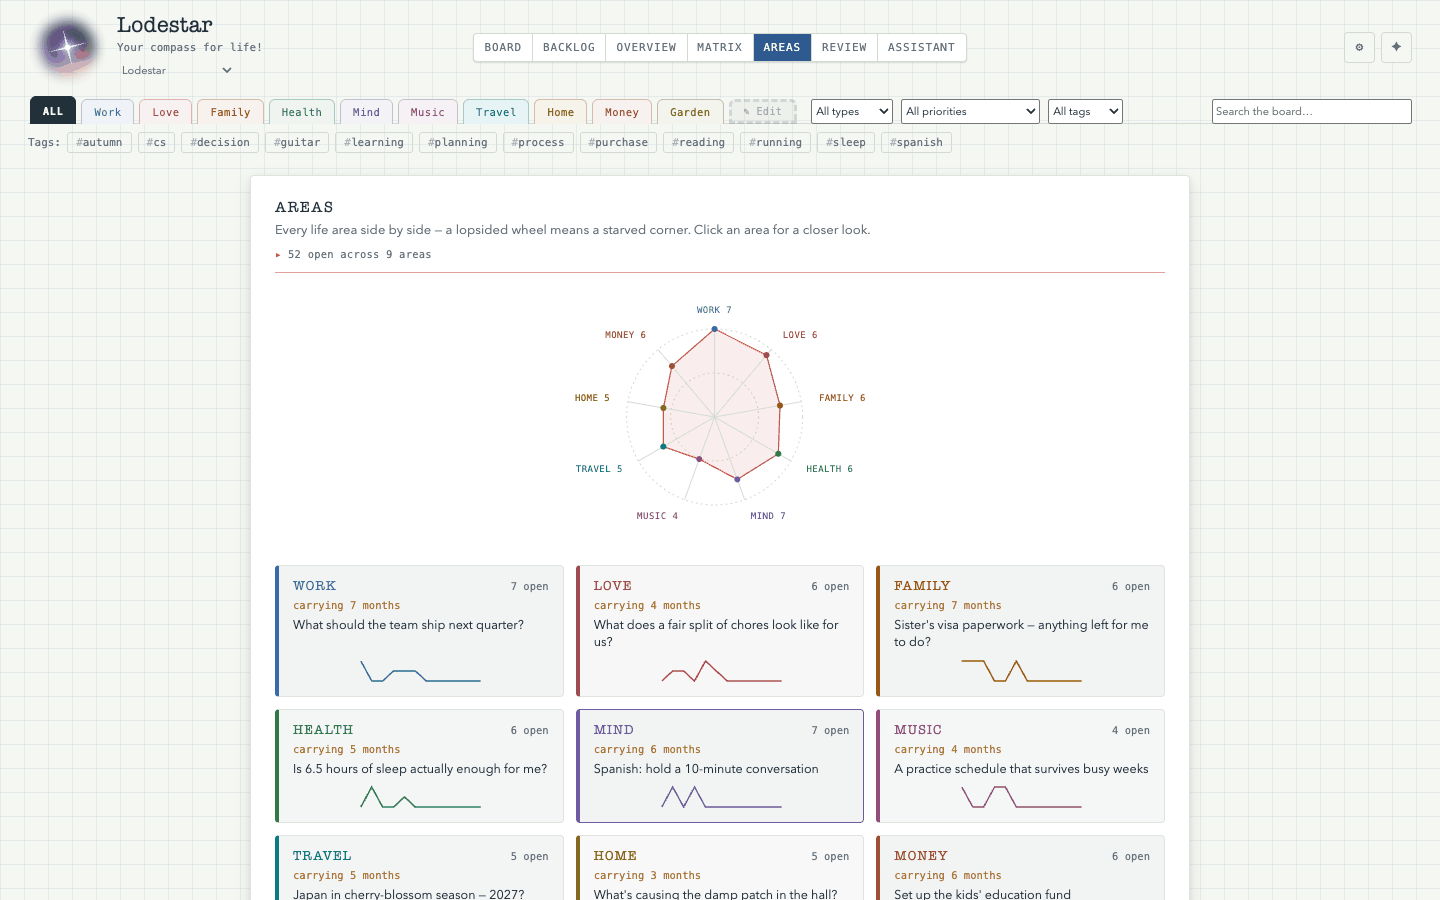
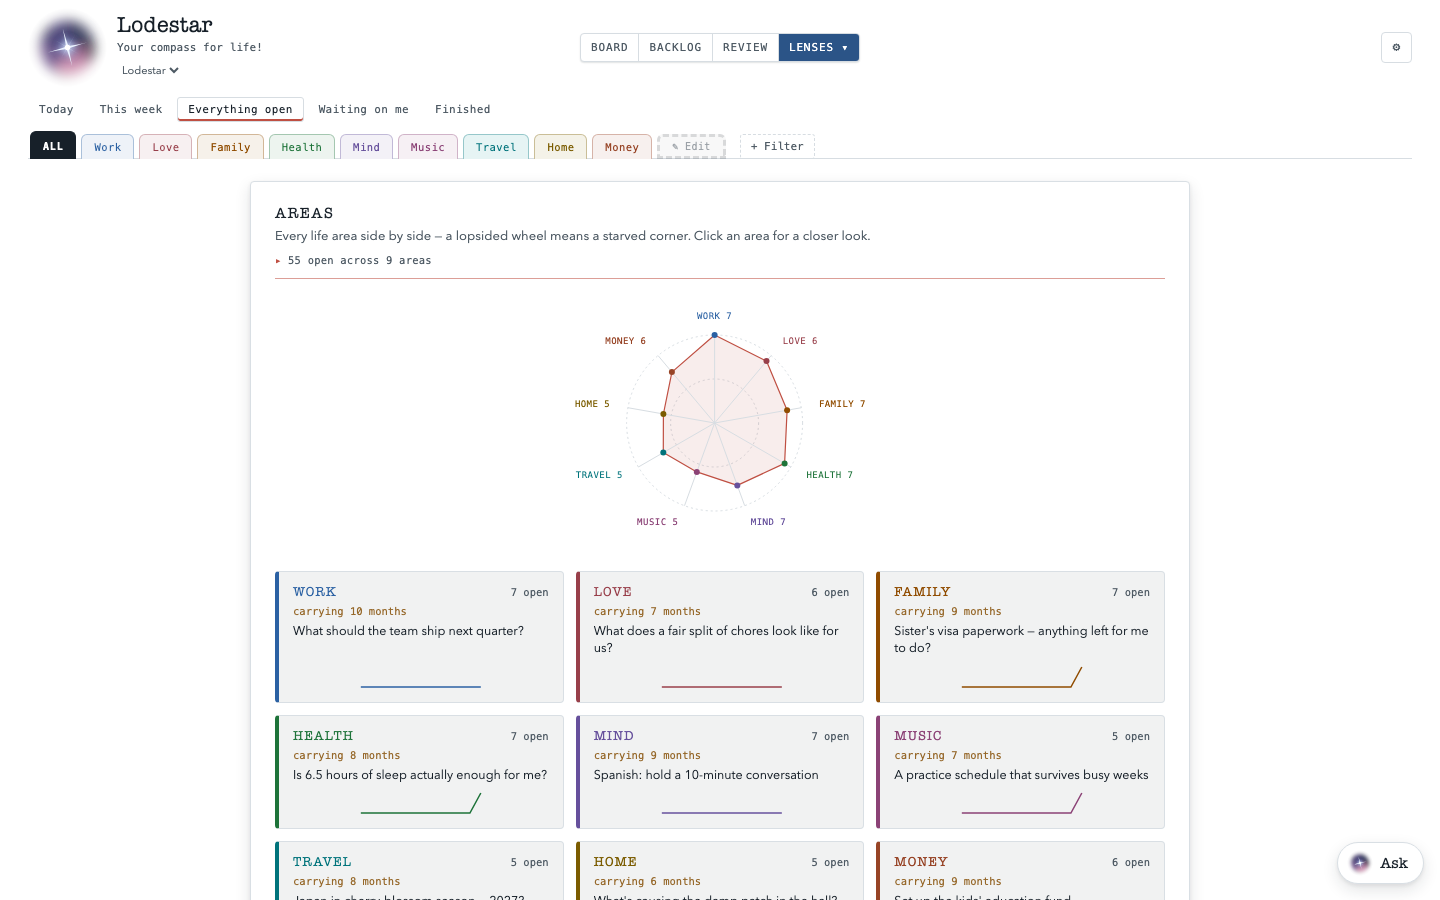
docs(img): retake the screenshots from the demo board
A new script starts a throwaway server, loads the demo cards and saves one screenshot per view. The old images predated the filter window and the new board layout, so they are replaced, and three new ones show the filters, the card editor and the meaning map.

diff --git a/scripts/capture-screenshots.py b/scripts/capture-screenshots.py
@@ -1,0 +1,119 @@
+"""Capture the README screenshots from a throwaway demo board.
+
+    uv run --with playwright python scripts/capture-screenshots.py docs/img
+
+Starts its own server on :3017 with a temporary database, loads
+sample-overview.json plus a few deadlines, plans and habits, and saves one PNG
+per view. The real board is never touched.
+"""
+import json, os, subprocess, sys, tempfile, time, urllib.request
+from datetime import date, datetime, timedelta, timezone
+from playwright.sync_api import sync_playwright
+
+ROOT = os.path.dirname(os.path.dirname(os.path.abspath(__file__)))
+OUT = sys.argv[1]
+PORT = 3017
+URL = f"http://127.0.0.1:{PORT}"
+PW = "demo-gallery-password"
+tmp = tempfile.mkdtemp()
+today = date.today()
+
+def iso(d): return d.isoformat()
+def stamp(days_ago): return (datetime.now(timezone.utc) - timedelta(days=days_ago)).isoformat()
+
+sample = json.load(open(os.path.join(ROOT, "sample-overview.json")))
+cards = []
+for i, c in enumerate(sample["cards"]):
+    c = dict(c, id=f"demo-{i:03d}", num=i + 1)
+    if c["type"] == "plan": c["type"] = "task"
+    cards.append(c)
+by = {c["title"]: c for c in cards}
+def edit(title, **kw): by[title].update(kw)
+
+# A little life on top of the sample: deadlines, plans, dreams, parts, habits.
+edit("Renew the passport before it lapses", deadline=iso(today - timedelta(days=2)), importance="high", urgency="high")
+edit("Find a dentist that does evening appointments", deadline=iso(today + timedelta(days=3)))
+edit("Prepare the performance review write-ups", deadline=iso(today + timedelta(days=5)), importance="high")
+edit("Write the anniversary letter", deadline=iso(today + timedelta(days=9)))
+edit("Japan in cherry-blossom season — 2027?", type="dream", plan="2027-04")
+edit("Interrail with the nieces next summer", type="dream", plan="2027")
+edit("Record a lo-fi cover of 'Heroes'", type="dream")
+edit("Shortlist towns for the autumn hiking trip", plan=iso(today))
+edit("Draft the conference talk proposal", plan=f"{today.year}-{today.month:02d}")
+edit("Fix the squeaky bedroom door", plan=iso(today + timedelta(days=1)))
+parent = by["Sort out grandpa's photo archive"]
+n = len(cards)
+for j, t in enumerate(["Scan the 1970s albums", "Label faces with grandma", "Share the folder with the cousins"]):
+    cards.append({"id": f"demo-{n + j:03d}", "num": n + j + 1, "title": t, "type": "task", "category": "family",
+                  "columnId": "inbox" if j else "in-progress", "parentId": parent["id"], "notes": "", "tags": [],
+                  "createdAt": stamp(10), "updatedAt": stamp(1)})
+n = len(cards)
+def history(days, per_day):
+    return {iso(today - timedelta(days=d)): per_day for d in range(1, days) if d % 5 != 3}
+cards.append({"id": f"demo-{n:03d}", "num": n + 1, "title": "Meditate", "type": "habit", "category": "health",
+              "columnId": "inbox", "habitFreq": "daily", "habitCount": 2,
+              "habitTimes": [{"time": "07:30"}, {"time": "21:00"}], "habitHistory": {**history(21, 2), iso(today): 1},
+              "notes": "", "tags": [], "createdAt": stamp(30), "updatedAt": stamp(0)})
+cards.append({"id": f"demo-{n+1:03d}", "num": n + 2, "title": "Practise guitar", "type": "habit", "category": "music",
+              "columnId": "inbox", "habitFreq": "daily", "habitCount": 1, "habitTimes": [{"time": "18:00"}],
+              "habitHistory": history(14, 1), "notes": "", "tags": [], "createdAt": stamp(20), "updatedAt": stamp(1)})
+cards.append({"id": f"demo-{n+2:03d}", "num": n + 3, "title": "Call mum", "type": "habit", "category": "family",
+              "columnId": "inbox", "habitFreq": "weekly", "habitCount": 1, "habitTimes": [{"weekday": 0, "time": "10:00"}],
+              "habitHistory": {}, "notes": "", "tags": [], "createdAt": stamp(40), "updatedAt": stamp(3)})
+for c in cards:
+    if c["columnId"] == "answered": c["doneAt"] = c.get("updatedAt")
+
+env = {**os.environ, "PORT": str(PORT), "BOARD_DB": f"{tmp}/board.db", "ASSISTANT_DB": f"{tmp}/assistant.db",
+       "AGENT_URL": "http://127.0.0.1:9", "LODESTAR_AUTH_PASSWORD": PW, "LODESTAR_BACKUP_ON_WRITE": "0",
+       "LODESTAR_BACKUP_DIR": f"{tmp}/backups", "LODESTAR_RCLONE_BIN": "/nonexistent", "NODE_NO_WARNINGS": "1"}
+for k in [k for k in env if k.startswith("LODESTAR_AUTH_PASSWORD_HASH")]: env.pop(k)
+srv = subprocess.Popen(["node", "server.js"], cwd=ROOT, env=env, stdout=subprocess.DEVNULL, stderr=subprocess.DEVNULL)
+for _ in range(100):
+    try: urllib.request.urlopen(URL + "/api/health", timeout=1); break
+    except Exception: time.sleep(0.1)
+
+def shot(page, name, **kw):
+    page.wait_for_timeout(700)
+    page.screenshot(path=f"{OUT}/{name}.png", scale="css", animations="disabled", **kw)
+    print("saved", name)
+
+def view(page, name):
+    if name in ("overview", "matrix", "areas"):
+        page.click("#lenses-btn"); page.click(f"#lenses-panel button[data-view={name}]")
+    else:
+        page.click(f".view-switch button[data-view={name}]")
+    page.wait_for_timeout(900)
+
+def open_board(browser, **ctx_args):
+    ctx = browser.new_context(reduced_motion="reduce", **ctx_args)
+    page = ctx.new_page()
+    page.add_init_script("window.QBOARD_DISABLE_SEMANTIC = true")
+    assert page.request.post(URL + "/api/login", data={"password": PW}).ok
+    return ctx, page
+
+try:
+    with sync_playwright() as p:
+        b = p.chromium.launch()
+        ctx, page = open_board(b, viewport={"width": 1440, "height": 900})
+        r = page.request.put(URL + "/api/state", data={"version": 1, "cards": cards})
+        assert r.ok, (r.status, r.text())
+        page.goto(URL + "/"); page.wait_for_selector("#board .card", state="attached")
+        shot(page, "hero")
+        page.click("#filter-btn"); page.wait_for_selector("#filter-panel:not([hidden])")
+        shot(page, "filters"); page.keyboard.press("Escape")
+        page.locator(".card", has_text="Sort out grandpa").first.click()
+        page.wait_for_selector("dialog[open]")
+        shot(page, "card"); page.keyboard.press("Escape")
+        for v in ("matrix", "areas", "review", "overview"):
+            view(page, v); shot(page, v)
+        ctx.close()
+        ctx, page = open_board(b, viewport={"width": 390, "height": 844}, device_scale_factor=2,
+                               is_mobile=True, has_touch=True)
+        page.goto(URL + "/"); page.wait_for_selector("#board .card", state="attached")
+        page.wait_for_timeout(700)
+        page.screenshot(path=f"{OUT}/mobile.png", animations="disabled",
+                        clip={"x": 0, "y": 0, "width": 390, "height": 750})
+        print("saved mobile")
+        b.close()
+finally:
+    srv.terminate()

diff --git a/docs/img/README.md b/docs/img/README.md
@@ -1,178 +1,35 @@
-# Release gallery manifest
+# Screenshots
 
-The nine images and one animation beside this file are the curated release
-gallery. Six of the images are real, unretouched Playwright screenshots lifted
-from `tests/artifacts/`, which the end-to-end suite writes while driving the app
-against a throwaway SQLite database in a temp directory. The other four were
-captured on purpose, by two scripted sessions against a throwaway board of their
-own: `assistant.png` and `approval-gate.gif`, because no artifact of the
-Assistant existed that told the truth about it (*The live capture* below), and
-`board-habits.png` and `history.png`, because the artifacts of those two carried
-test-probe cards in frame (*The recapture* below). The card text in all of them
-comes from exactly three sources — the six seed cards in `js/core/cards.js`, the
-60-card demo board in the tracked, already-public `sample-overview.json`, and, in
-the two recaptured shots, three plainly synthetic titles typed into the running
-app (*Meditate*, *Book the winter tyres swap*, and *Sort out grandpa's photo
-archive* renamed to *Scan* it). So no image carries a real person's name, a real
-card, a real conversation, a key, or a path naming anyone's home directory. Nothing was
-edited pixel-by-pixel; the only processing was lossless-to-the-eye recompression
-(see *Optimisation* below).
+Every image here is a real, unedited screenshot of the app. None shows real
+personal data: the card text comes from the demo board in
+[`sample-overview.json`](../../sample-overview.json), plus a few synthetic
+deadlines, plans, sub-cards and habits added by the capture script.
 
-Paths are stable. Reference them from the README as `docs/img/<file>` and treat
-the filenames as API — rename nothing, add instead.
+## Regenerating
 
-## The gallery
+```sh
+uv run --with playwright python scripts/capture-screenshots.py docs/img
+```
 
-| File | Alt text | Caption (≤ 90 chars) | Supports the claim |
-| --- | --- | --- | --- |
-| **`hero.png`** ★ hero | Lodestar's Board view: three columns — Inbox, In Progress, Done — holding six cards, each with a ledger number, a neutral type stamp, and a coloured life-area label, above a rail of nine life-area tabs. | The board: every open thought in one ledger, stamped by type and coloured by life area. | The product at a glance — cards have a *type* and a *category*, and flow Inbox → In Progress → Done |
-| `board-habits.png` | The same board grown to 61 cards across nine life areas, with a "1 habit due — Meditate (1/2 today)" banner at the top, a Habits rail on the right, and a habit card showing its punch strip and a 21-day completion tape reading "15 of 21 complete · longest run 4". | Habits live on the board: a due banner, a rail, and a 21-day tape per habit. | Habit cards track repetitions per period and keep a capped history; the rail is the reminder |
-| `areas.png` | The Areas view: a nine-spoke radar wheel labelled Work, Love, Family, Health, Mind, Music, Travel, Home, Money, with per-area tiles below showing open counts, how long each has been carried, and a sparkline. | Nine life areas side by side — a lopsided wheel means a starved corner. | Lodestar covers a whole life, not one project; the wheel is the "give direction" pillar |
-| `matrix.png` | The Matrix view: four Eisenhower quadrants — Answer now, Schedule, Delegate, Drop — each holding a category-coloured dot, with a per-area colour legend above. | The Eisenhower matrix, importance against urgency, placed by the card's own fields. | Cards carry importance and urgency, and four framings (Eisenhower, Leverage, Serenity, Follow-through) read them |
-| `review.png` | The Review view scrolled to Today's Resurfacing: three long-untouched cards, each offering "Still matters", "Open" and "To Trash", above a "Stamp the review done" button showing a REVIEWED stamp. | Weekly review: three old thoughts re-met on purpose — keep, open, or let go. | Drives follow-through and never loses a thought; resurfacing is deliberate, not a notification |
-| `history.png` | The Board History dialog listing seven timestamped changes newest first — a delete, a category set, a card added, a move to Done, a deadline, a title edit, a type change — each with a Restore button, the newest marked CURRENT, above a Deleted cards section holding the deleted card with Restore and "Delete permanently" beside it. | Every change is logged and restorable; only "Delete permanently" really erases. | The durability promise — a card is destroyed only via Trash → Delete permanently, and undo is a history, not one step |
-| `categories.png` | The Categories dialog listing ten life areas, each in its own colour with its card count and a Remove button, plus a new-category field and a row of colour swatches. | Life areas are yours to name and colour — removing one never deletes its cards. | Colour always means category; the registry is per board and editable |
-| `assistant.png` | The Assistant view: a question asking for a new task card, the assistant's reply saying it has proposed one, and above it a dashed panel headed "PROPOSED — 1 CARD AWAITING YOUR APPROVAL" holding the card "Book a dentist appointment" with Reject and Approve buttons. | The assistant proposes; nothing reaches the board until you approve it. | The write-protection gate — `MUTATING_TOOLS` is empty and the agent has no board-write path at all |
-| `approval-gate.gif` | A 15-second animation: a question is typed into the Assistant, the reply streams in, a proposed card appears awaiting approval, Approve is pressed, and the card appears on the Board as C-061 "Book a dentist appointment" in Health. | Proposal to approval to card, in fifteen seconds — the gate in motion. | The same gate, shown end to end: the agent cannot write, and the user's click is what does |
-| `mobile.png` | Lodestar at 375px wide: the header and view tabs stacked, the life-area tabs in a vertical rail, and the Inbox column beside a horizontally scrolling In Progress column. | At 375px the board becomes a horizontal scroll; nothing is hidden away. | The board is usable on a phone with no separate mobile build |
+The script starts its own server on port 3017 with a temporary database, so
+your own board is never read or changed. It rewrites `hero`, `filters`, `card`,
+`overview`, `matrix`, `areas`, `review` and `mobile`. Desktop shots are taken at
+1440×900; the phone shot at 390 px wide, 2× scale.
 
-★ = hero. Use `hero.png` as the single image at the top of the README.
+## Files
 
-`approval-gate.gif` needs no sound and shows no cursor, so its caption carries
-the story on its own for anyone who cannot or will not play it. The transcript
-of the recorded turn, in order: the question *"Propose a new task card: Book a
-dentist appointment. Health area. Do not ask me anything first."*; the reply
-*"I've proposed the task card 'Book a dentist appointment' under Health, in the
-inbox. It's awaiting your approval on the board."*; the panel *"PROPOSED — 1
-CARD AWAITING YOUR APPROVAL"* with **Reject** and **Approve**; and after
-Approve, the card on the Board as **C-061 · task · Health**.
-
-Note on `review.png`: the shot is scrolled past the four stat tiles at the top
-of the Review view, so the tiles are not visible in it. The caption above claims
-only what the image shows.
-
-## Optimisation
-
-All nine are PNG. Eight have a 1440px long edge — the six lifted from
-`tests/artifacts/` and the two recaptured, which are shot at `scale="css"` into a
-1440x900 viewport and so need no resizing at all; `assistant.png` was captured at
-2x and halved to 1600px to sit beside them. The nine total **1,108 KB**, and the
-GIF adds 258 KB.
-
-Five of them are recompressed with a 256-colour adaptive palette (Pillow,
-`MEDIANCUT`, no dither), which is visually lossless on flat, quad-paper UI
-screenshots — mean per-pixel error ≈ 0.1/255 — for a 62 % saving:
-
-| File | Shipped | Treatment |
+| File | Shows | Source |
 | --- | --- | --- |
-| `hero.png` | 47 KB | 256-colour palette (from 130 KB) |
-| `areas.png` | 54 KB | 256-colour palette (from 145 KB) |
-| `matrix.png` | 39 KB | 256-colour palette (from 104 KB) |
-| `review.png` | 48 KB | 256-colour palette (from 129 KB) |
-| `mobile.png` | 25 KB | 256-colour palette (from 68 KB) |
-| `board-habits.png` | 210 KB | full colour, plain re-pack |
-| `history.png` | 275 KB | full colour, plain re-pack |
-| `categories.png` | 202 KB | full colour, plain re-pack |
-| `assistant.png` | 204 KB | halved from 2x, full colour |
+| `hero.png` | The Board: columns, summary line, habits and plan rail | capture script |
+| `filters.png` | The filter window | capture script |
+| `card.png` | The card editor on a card with sub-cards | capture script |
+| `overview.png` | Cards mapped by meaning | capture script |
+| `matrix.png` | Eisenhower matrix with the Unknown corner | capture script |
+| `areas.png` | Life-area radar and tiles | capture script |
+| `review.png` | Weekly review | capture script |
+| `mobile.png` | The board on a phone | capture script |
+| `assistant.png` | The assistant proposing a card for approval | recorded live, 2026-09-02 |
+| `approval-gate.gif` | Proposal → Approve → card on the board | recorded live, 2026-09-02 |
+| `board-habits.png`, `history.png`, `categories.png` | Habits, undo history, life-area editor | recorded 2026-09-02; not used by the README |
 
-Four ship in full colour. `assistant.png` simply was never quantised — it was
-already the halved 2x capture. The other three are deliberate refusals, and the
-reason is one artefact in three places. `history.png` and `categories.png` are
-modal dialogs over a blurred
-backdrop, and the blur's gradient consumes the palette: the colour swatches in
-`categories.png` — the one image whose subject *is* colour — collapsed into
-browns, and the logo's gradient went grey. `board-habits.png` **was** quantised
-until 2026-09-02, at 73 KB, and the recapture is what showed what that had cost:
-the logo's purple glow bands into visible contour rings and the banner's bell
-emoji loses its yellow. Both were true of the shipped image too; nobody had
-looked at that 60px patch.
-
-So the mean error is a poor witness here. 0.1/255 averaged over 1.3 M
-mostly-flat pixels says nothing about the one small region where the whole error
-lives, which is why the check is now a magnified side-by-side crop of the logo,
-the bell and the coloured area tabs, plain against quantised. Full colour costs
-`board-habits.png` 137 KB and buys back the logo, and it is the reason
-`history.png` ships at 275 KB rather than the 218 KB its predecessor managed —
-that shot had two cards behind the modal and this one has 61, and a fuller board
-is the more honest backdrop. Any future re-optimisation must re-check these four
-**by eye** rather than by file size.
-
-No image tool beyond `sips` and Pillow was used, and no dependency was added.
-
-## The live capture
-
-`assistant.png` and `approval-gate.gif` come from one recorded session on
-2026-09-02, not from the test suite. They had to: the only artifact showing the
-Assistant was `tests/artifacts/voice-transcript.png`, and it is unusable for a
-release — the transcript is `FAKE:` replies from the offline chat backend, there
-is a red "The assistant is unavailable right now" banner, and a stray "banner
-please" probe sits in the margin. Rejected on accuracy, not privacy.
-
-What was recorded, so it can be recorded again:
-
-- A throwaway board and a real brain on `BRAIN_LLM=claude-cli` — a live model,
-  so the reply, the tool count and the token figure in the images are a real
-  turn's and not a fixture's. Everything else fake or in-memory:
-  `BRAIN_EMBEDDER=fake`, `BRAIN_CHROMA_URL=memory`, `BRAIN_URL_SAFETY=fake`.
-- The board filled from the same tracked `sample-overview.json` the e2e uses, so
-  the privacy position is unchanged.
-- Frames every 500 ms through the turn, then assembled by Pillow at 900px wide
-  on one shared 128-colour palette — one palette for the whole animation, or
-  every frame becomes a keyframe and the file triples. 26 distinct frames,
-  14.8 s, 258 KB. No ffmpeg, no new dependency.
-- The prompt is deliberately blunt (*"Do not ask me anything first"*). Asked
-  loosely, the model quite reasonably came back with "there is already a dentist
-  card — new one, or update that?", which is the right answer to the question
-  and the wrong frame for a recording about the approval gate. That is what a
-  live model costs and it is worth it.
-
-Two things the recording found, both since fixed and both visible in these
-images only in their corrected form: a tool's own model call being streamed into
-the transcript, and the tool count being printed twice in one row.
-
-## The recapture
-
-`board-habits.png` and `history.png` come from one scripted session on
-2026-09-02, not from the test suite. The artifacts they replace were accurate
-but read as scaffolding: the habits shot carried a card called
-`EFFORT-CONTROL-probe` near the top of the Inbox, and seven of the nine visible
-rows in the History log said *"Menu probe card"*. Rejected on how they read, not
-on privacy — but a release gallery whose evidence for the durability promise is a
-log of a test poking at a menu is asking to be disbelieved.
-
-What was recorded, so it can be recorded again:
-
-- A throwaway board on a temp SQLite database and a brain on `BRAIN_LLM=fake`.
-  Neither shot needs a model; the brain is there so nothing on screen is an error
-  banner. `LODESTAR_BACKUP_ON_WRITE=0`, and `databases/real/` untouched.
-- The board filled from the same tracked `sample-overview.json`, substituted, so
-  the privacy position is unchanged. The six seed cards that substitution
-  soft-deletes are then purged through `DELETE /api/cards/:id` — otherwise they
-  would be the Deleted cards section of the History shot, which is the one part
-  of that image the caption is about.
-- One habit created through the card dialog, exactly as a person makes one:
-  quick-add *"Meditate"*, stamp it Habit, daily, 2 per day, Health.
-- Both frames shot at `scale="css"` into a 1440x900 viewport — a 1x render at the
-  gallery's own size, no resampling anywhere.
-- The History log is nine real actions taken through the UI in order: a move to
-  In Progress, a category set to Mind, a type set to task, a title edited in the
-  card dialog, a deadline set to today, a move to Done, a card added, its
-  category set to Home, and a delete. The board's own log then reads like
-  somebody's afternoon, because it is one.
-
-One thing in these two images was **not** typed into the running app, and it is
-the only such thing in the gallery: the twenty days of completions behind
-`board-habits.png`'s 21-day tape were written into `habitHistory` through
-`PUT /api/state`, then adopted back by reloading the browser. A habit created a
-minute before the shutter has an empty tape, and an empty tape is a picture of
-the widget rather than of the feature. The dates are synthetic, about nobody, and
-carry no text.
-
-## Still imperfect
-
-- **`history.png` is the gallery's largest file, 275 KB.** It cannot be
-  quantised (see *Optimisation*), and its backdrop is a full 61-card board
-  rather than the two-card one its predecessor happened to have. Both are
-  deliberate; the size is the price.
-- **The 21-day tape's older completions were written, not lived** — see the
-  paragraph above. Everything else in both images was done through the UI.
+File names are referenced from the README — add new files rather than renaming.
